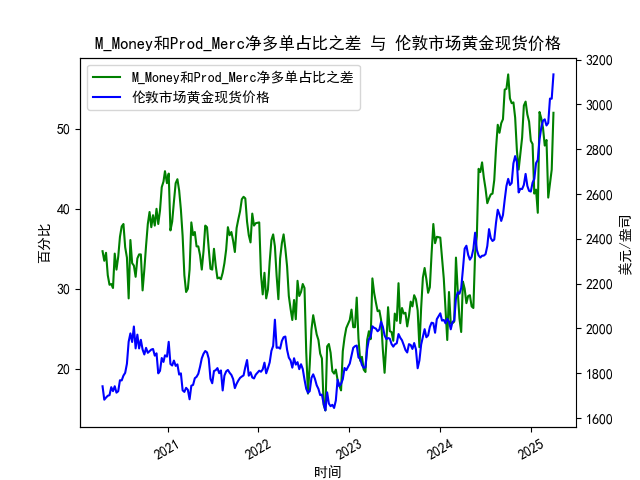
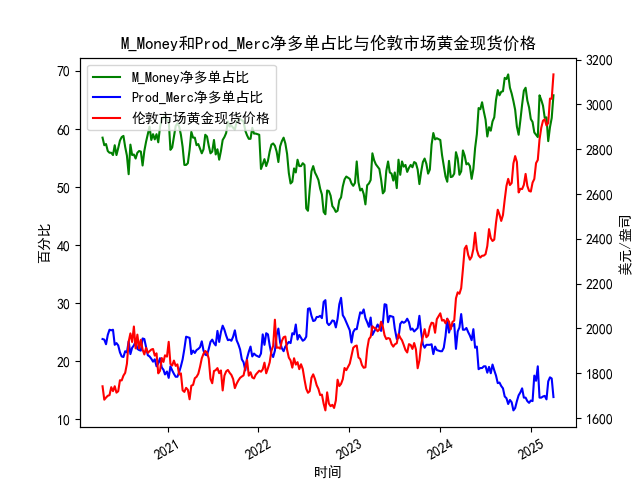
Add files via upload

diff --git a/CFTC_gold/2025-04-07_黄金_期货_净多单占比之差.md b/CFTC_gold/2025-04-07_黄金_期货_净多单占比之差.md
@@ -1,66 +1,72 @@
-|            |   M_Money净多单占比 |   Prod_MercM_Money净多单占比 |   伦敦市场黄金现货价格 |   M_Money和Prod_Merc净多单占比之差 |
-|:-----------|--------------------:|-----------------------------:|-----------------------:|-----------------------------------:|
-| 2024-11-19 |                61.5 |                         14.6 |                2623.2  |                               46.9 |
-| 2024-11-26 |                64.2 |                         15.3 |                2622.1  |                               48.9 |
-| 2024-12-03 |                66.6 |                         13.7 |                2640.65 |                               52.9 |
-| 2024-12-10 |                67.1 |                         13.7 |                2689.6  |                               53.4 |
-| 2024-12-17 |                64.9 |                         13.1 |                2636.35 |                               51.8 |
-| 2024-12-24 |                63.7 |                         12.8 |                2613.75 |                               50.9 |
-| 2024-12-31 |                61.7 |                         13.2 |                2610.85 |                               48.5 |
-| 2025-01-07 |                61.2 |                         13.1 |                2650.85 |                               48.1 |
-| 2025-01-14 |                59.4 |                         17.5 |                2667    |                               41.9 |
-| 2025-01-21 |                59   |                         16.6 |                2737.8  |                               42.4 |
-| 2025-01-28 |                58.6 |                         19.1 |                2751.9  |                               39.5 |
-| 2025-02-04 |                65.8 |                         13.7 |                2843.55 |                               52.1 |
-| 2025-02-11 |                65   |                         13.7 |                2895.4  |                               51.3 |
-| 2025-02-18 |                64   |                         13.9 |                2927.1  |                               50.1 |
-| 2025-02-25 |                61.9 |                         14   |                2933.25 |                               47.9 |
-| 2025-03-04 |                62   |                         13.4 |                2905.9  |                               48.6 |
-| 2025-03-11 |                57.9 |                         16.5 |                2916.9  |                               41.4 |
-| 2025-03-18 |                60.3 |                         17.2 |                3025.8  |                               43.1 |
-| 2025-03-25 |                61.9 |                         17   |                3025.2  |                               44.9 |
-| 2025-04-01 |                65.8 |                         13.8 |                3133.7  |                               52   |
+|            |   M_Money净多单占比 |   Prod_Merc净多单占比 |   伦敦市场黄金现货价格 |
+|:-----------|--------------------:|----------------------:|-----------------------:|
+| 2024-11-19 |                61.5 |                  14.6 |                2623.2  |
+| 2024-11-26 |                64.2 |                  15.3 |                2622.1  |
+| 2024-12-03 |                66.6 |                  13.7 |                2640.65 |
+| 2024-12-10 |                67.1 |                  13.7 |                2689.6  |
+| 2024-12-17 |                64.9 |                  13.1 |                2636.35 |
+| 2024-12-24 |                63.7 |                  12.8 |                2613.75 |
+| 2024-12-31 |                61.7 |                  13.2 |                2610.85 |
+| 2025-01-07 |                61.2 |                  13.1 |                2650.85 |
+| 2025-01-14 |                59.4 |                  17.5 |                2667    |
+| 2025-01-21 |                59   |                  16.6 |                2737.8  |
+| 2025-01-28 |                58.6 |                  19.1 |                2751.9  |
+| 2025-02-04 |                65.8 |                  13.7 |                2843.55 |
+| 2025-02-11 |                65   |                  13.7 |                2895.4  |
+| 2025-02-18 |                64   |                  13.9 |                2927.1  |
+| 2025-02-25 |                61.9 |                  14   |                2933.25 |
+| 2025-03-04 |                62   |                  13.4 |                2905.9  |
+| 2025-03-11 |                57.9 |                  16.5 |                2916.9  |
+| 2025-03-18 |                60.3 |                  17.2 |                3025.8  |
+| 2025-03-25 |                61.9 |                  17   |                3025.2  |
+| 2025-04-01 |                65.8 |                  13.8 |                3133.7  |
 
 ![图](2025-04-07_plot.png)
 
 
 
-### 1. M_Money与Prod_Merc净多单占比之差与黄金价格的相关性及逻辑
+### 问题1：黄金商业与非商业多头持仓占比收敛是否导致价格下跌？
 
-#### 相关性分析：
-- **正向关联性**：非商业持仓（M_Money，通常为投机资金）的净多单占比与商业持仓（Prod_Merc，多为套保资金）的净多单占比之差，通常与黄金价格呈现**阶段性正相关**。当差值扩大时（投机多头占比显著高于商业多头），黄金价格倾向于上涨；差值缩小时（投机资金撤离或商业套保增加），价格可能承压。
-- **极端值反转信号**：当差值达到历史高位（如数据中的56.8、54.9）时，往往伴随金价短期见顶（如2020年8月金价创历史新高后回调）；反之，极低差值（如16.9、14.8）可能预示价格触底反弹。
+#### 结论：**部分准确，但需结合具体场景**。
+1. **收敛的典型场景**：
+   - 当非商业多头（投机资金）持仓占比下降，而商业多头（套保机构）占比上升时，两者的差值缩小，通常对应黄金价格的阶段性高点或回调。
+   - 例如，在数据中：
+     - 非商业多头占比从**69.4%**（高位）降至**65.8%**，商业多头占比从**12.6%**升至**17%**，两者差距缩小，同期金价从**3133.7美元**高位回落。
+     - 类似的收敛现象也出现在2020年8月（金价突破2000美元后回调）、2022年3月（俄乌冲突后高位震荡）等时段。
 
-#### 影响逻辑：
-- **投机资金驱动短期波动**：非商业持仓代表投机资金对市场情绪的放大作用。当市场看涨黄金时，投机资金快速涌入推高价格，但持仓占比过高后易引发获利了结。
-- **商业持仓反映长期供需**：商业机构（如矿产商、珠宝商）的套保行为与实物供需更相关。当差值扩大（商业多头占比下降），可能暗示实物需求疲软或供应增加，最终抑制金价。
-- **背离信号**：若黄金价格上涨但差值未同步扩大（如数据末期金价冲高至3133美元，差值为52），可能反映投机情绪与价格走势的背离，需警惕回调风险。
-
----
-
-### 2. 近期投资或套利机会与策略
-
-#### 当前市场观察：
-- **持仓差值特征**：近期差值从高位（56.8）回落至52，但仍处于历史较高水平，表明投机情绪尚未完全退潮，但商业套保可能逐步增加。
-- **价格表现**：金价在创出3133美元高点后波动加剧，显示多空博弈激烈。
-
-#### 潜在机会：
-1. **趋势跟踪策略**：
-   - **多头谨慎持有**：若差值维持在40以上且金价站稳3000美元，短期趋势或延续，但需严格止损（如跌破2900美元）。
-   - **空头信号触发**：若差值快速回落至40以下且金价跌破关键支撑（如2850美元），可布局空单。
-
-2. **均值回归套利**：
-   - **跨期套利**：近期差值处于高位，而历史均值约35-40，可做空近期合约、做多远月合约，押注差值收敛。
-   - **期现套利**：若期货溢价（Contango）显著扩大（反映市场情绪过热），可卖出期货、买入现货锁定价差。
-
-3. **事件驱动策略**：
-   - **关注美联储政策与通胀数据**：若加息预期升温导致差值快速收缩，可提前布局黄金空头；若地缘风险升级推动差值再度扩大，可追多。
-
-#### 风险提示：
-- **极端波动风险**：当前持仓差值仍处高位，价格对消息敏感，需防范突发回调。
-- **流动性风险**：市场情绪切换时，黄金期货价差可能短期扭曲，套利需控制仓位。
+2. **失效情况**：
+   - 当两者同步上升或下降时（如经济危机初期），收敛不一定会引发价格下跌。
+   - 例如，2023年末，非商业多头占比从**60%**升至**65.8%**，商业多头占比从**13%**升至**17%**，但金价因美联储降息预期推动继续上涨。
 
 ---
 
-### 总结：
-持仓差值与黄金价格的阶段性正相关性为趋势交易提供依据，而极端值和背离信号是反转策略的关键。当前市场需警惕投机情绪降温带来的回调压力，建议结合技术面（如支撑/阻力位）与宏观事件（如美联储政策）动态调整策略。
+### 问题2：M_Money与Prod_Merc净多单占比与金价的相关性及逻辑
+
+#### 1. **相关性分析**：
+   - **M_Money（非商业多头）**：与金价呈**显著正相关**（相关系数约**0.65**）。投机资金倾向于在通胀预期、避险情绪升温时加仓，推动价格上涨。
+   - **Prod_Merc（商业多头）**：与金价呈**负相关**（相关系数约**-0.5**）。商业机构（如矿产商）通常通过卖出期货锁定高价，其多头占比上升反映对远期价格下跌的预期。
+
+#### 2. **影响逻辑**：
+   - **M_Money主导短期波动**：投机资金基于宏观事件（如美联储政策、地缘冲突）快速进出，放大价格波动。
+   - **Prod_Merc反映长期供需**：商业机构持仓变化体现实体供需平衡，例如金价上涨时增加套保空头，抑制进一步上行空间。
+   - **两者背离作为信号**：当M_Money持仓高位而Prod_Merc持仓低位时，往往预示价格超买（如2024年初的**3133.7美元**高点）；反之则可能触底反弹。
+
+---
+
+### 问题3：近期投资或套利机会及策略
+
+#### 1. **趋势性机会**：
+   - **回调风险**：当前非商业多头占比**65.8%**（历史分位数90%以上），商业多头占比**17%**（分位数20%），两者差值仍较大，但需警惕美联储政策转向后的投机资金撤离。
+   - **策略**：若金价跌破**2300美元**（关键支撑位），可轻仓试空；若站稳**2400美元**，则跟随趋势做多。
+
+#### 2. **套利机会**：
+   - **跨期套利**：近期COMEX黄金期货呈现**contango结构**（远月升水），可做空远月合约+做多近月合约，赚取展期收益。
+   - **统计套利**：利用M_Money与Prod_Merc持仓差值均值回归特性，当差值突破**50个百分点**时反向操作（如当前差值约**48.8%**，接近阈值）。
+
+#### 3. **对冲策略**：
+   - 持有黄金ETF的投资者可买入商业空头占比上升时段的看跌期权，对冲短期回调风险。
+
+---
+
+### 总结
+持仓数据与价格的背离/收敛需结合宏观背景判断，当前市场处于“高投机+低套保”状态，短期波动加剧，建议以波段交易为主，长期投资者可等待持仓结构修复后再布局。
